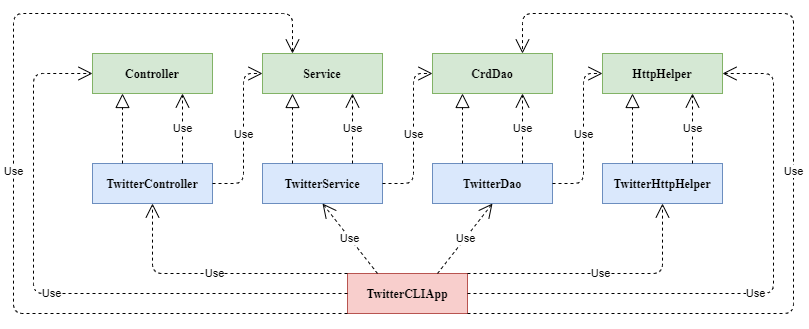
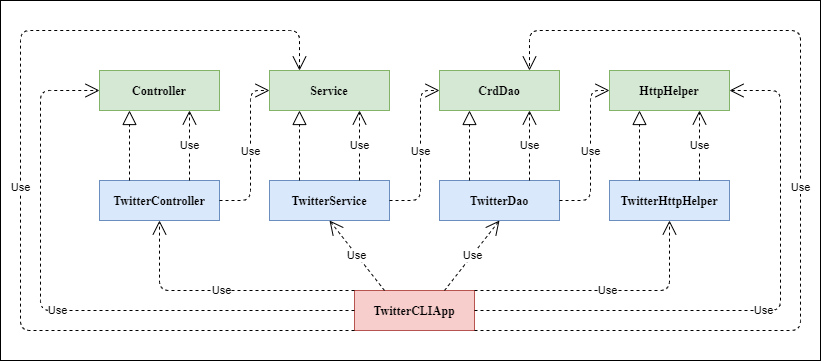
Updated README

diff --git a/core_java/twitter/README.md b/core_java/twitter/README.md
@@ -52,7 +52,7 @@ java -jar #jarFileName.jar post|show|delete [options]
 ## Design
 ### UML Diagram
 <p align="center">
-    <img src="./assets/UML_Diagram.png" height="1%" width="50%">
+    <img src="./assets/UML_Diagram.png" height="5%" width="75%">
 </p>
 
 ### Components
